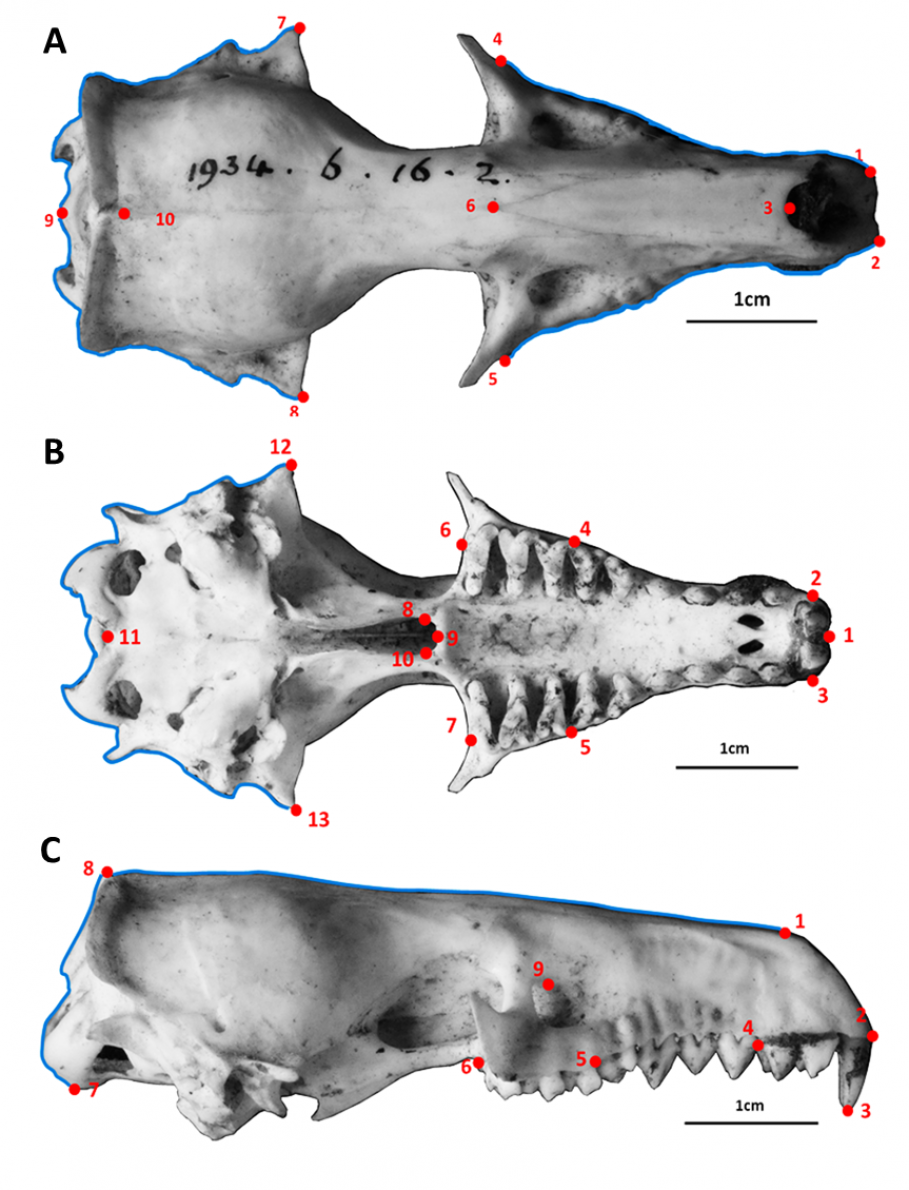
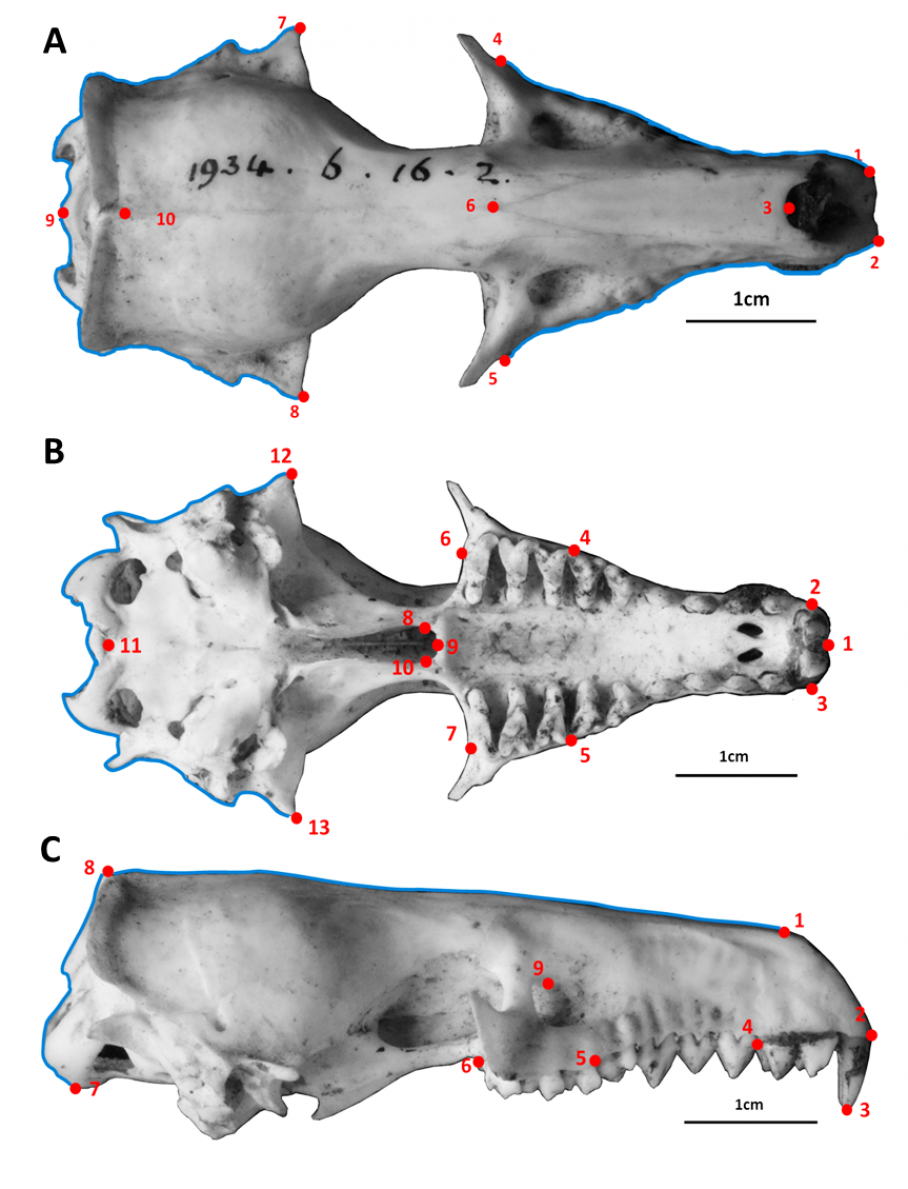
Update after PeerJ acceptance: edits to manuscript and new version of figure 2

diff --git a/paper/Manuscript.tex b/paper/Manuscript.tex
@@ -67,7 +67,7 @@ $^*$Corresponding author: Natalie Cooper; ncooper@tcd.ie; Zoology Building, Trin
 	Our methods involved i) data collection, ii) geometric morphometric analyses and iii) estimating morphological diversity. For clarity,  Figure 1 summarises all of these steps and we describe them in detail below.  	
 	
 \subsection{Data collection}
-	One of us (SF) collected data from five museums: Natural History Museum, London (BMNH), Smithsonian Institute Natural History Museum, Washington D.C. (SI), American Museum of Natural History, New York (AMNH), Museum of Comparative Zoology, Cambridge M.A. (MCZ) and Field Museum of Natural History, Chicago (FMNH). We used the taxonomy in Wilson \& Reeder's Mammal Species of the World \citeyearpar{Wilson2005}, except for the recently discovered tenrec species \textit{Microgale jobihely} \citep{Goodman2006}. We photographed all of the intact tenrec and golden mole skulls available in the collections. This included 31 of the 34 species in the tenrec family \citep{Olson2013} and 12 of the 21 species of golden moles \citep{Wilson2005}.
+	One of us (SF) collected data from five museums: Natural History Museum, London (BMNH), Smithsonian Institute Natural History Museum, Washington D.C. (SI), American Museum of Natural History, New York (AMNH), Museum of Comparative Zoology, Cambridge M.A. (MCZ) and Field Museum of Natural History, Chicago (FMNH). We used the taxonomy in Wilson \& Reeder's Mammal Species of the World \citeyearpar{Wilson2005}, except for the recently discovered tenrec species \textit{Microgale jobihely} \citep{Goodman2006}. We photographed all of the undamaged tenrec and golden mole skulls available in the collections. This included 31 of the 34 species in the tenrec family \citep{Olson2013} and 12 of the 21 species of golden moles \citep{Wilson2005}.
 	
 	We took pictures of the skulls using photographic copy stands. To take possible light variability into account, we took a photograph of a white sheet of paper each day and used the custom white balance function on the camera to set the image as the baseline "white" measurement for those particular light conditions. We photographed the specimens with a Canon EOS 650D camera fitted with a EF 100 mm f/2.8 Macro USM lens and using a remote control (H\"ahnel Combi TF) to avoid camera shake. We photographed the specimens on a black material background with a light source in the top left-hand corner of the photograph and a scale bar placed below the specimen. We used small bean bags to hold the specimens in position to ensure that they lay in a flat plane relative to the camera, and used the grid-line function on the live-view display screen of the camera to position the specimens in the centre of each image. 
 	
@@ -79,9 +79,9 @@ $^*$Corresponding author: Natalie Cooper; ncooper@tcd.ie; Zoology Building, Trin
 
 	We used a combination of landmark and semilandmark approaches to assess the shape variability in the skulls.  We used the TPS software suite \citep{Rohlf2013} to digitise landmarks and curves on the photos. We set the scale on each image individually to standardise for the different camera heights used when photographing the specimens. We created separate data files for each of the three morphometric analyses (dorsal, ventral and lateral views). One of us (SF) digitised landmarks and semilandmark points on every image individually. 
 
-	Figure 2 depicts the landmarks and curves which we used for each skull view. For landmarks defined by dental structures, we used published dental sources where available \citep{Repenning1967, Eisenberg1969, Nowak1983, MacPhee1987, KnoxJones1992, Davis1997, Querouil2001, Nagorsen2002, Wilson2005, Goodman2006, Karatas2007, Hoffmann2008, Asher2008,  Muldoon2009, Lin2010}  to identify the number and type of teeth in each species. Detailed descriptions of the landmarks, as well as an example figure of landmarks on golden mole skulls, can be found in the supplementary material.
+	Figure 2 depicts the landmarks and curves which we used for each skull view. For landmarks defined by dental structures, we used published dental sources where available \citep{Repenning1967, Eisenberg1969, Nowak1983, MacPhee1987, KnoxJones1992, Davis1997, Querouil2001, Nagorsen2002, Wilson2005, Goodman2006, Karatas2007, Hoffmann2008, Asher2008,  Muldoon2009, Lin2010}  to identify the number and type of teeth in each species. Detailed descriptions of the landmarks can be found in the supplementary material (Tables S1, S2, S3) along with an example figure of landmarks on golden mole skulls (figure S1).
 
-	When using semilandmark approaches there is a potential problem of over-sampling: simpler structures will require fewer semilandmarks to accurately represent their shape \citep{MacLeod2012}. To ensure that we applied a uniform standard of shape representation to each outline segment (i.e. that simple structures would not be over-represented and more complex features would not be under-represented), we followed the method outlined by MacLeod \citeyearpar{MacLeod2012} to determine the minimum number of semilandmark points which would give accurate representations of morphological shape. We used 54 points for skulls in dorsal view (10 landmarks, 44 semilandmarks across 4 curves), 73 points for skulls in ventral view (13 landmarks, 60 semilandmarks) and 44 points for skulls in lateral view (9 landmarks and 35 semilandmarks across 2 curves). See Figure 2 and the supplementary material for more details.
+	When using semilandmark approaches there is a potential problem of over-sampling: simpler structures will require fewer semilandmarks to accurately represent their shape \citep{MacLeod2012}. To ensure that we applied a uniform standard of shape representation to each outline segment (i.e. that simple structures would not be over-represented and more complex features would not be under-represented), we followed the method outlined by MacLeod \citeyearpar{MacLeod2012}. This re-sampling method determines the minimum number of semilandmark points required to measure an outline length to at least 95\% accuracy of the true length of the outline. The procedure balances the need to represent outline shapes accurately without introducing error by over-sampling curves \citep{MacLeod2012}. We used 54 points for skulls in dorsal view (10 landmarks, 44 semilandmarks across 4 curves, Table S1), 73 points for skulls in ventral view (13 landmarks, 60 semilandmarks, Table S2) and 44 points for skulls in lateral view (9 landmarks and 35 semilandmarks across 2 curves, Table S3). See Figure 2 and the supplementary material for more details.
 	
 	After creating the files with the landmarks and semilandmarks placed on each photograph, we used TPSUtil \citep{Rohlf2012} to create "sliders" files that defined which points in the TPS files should be treated as semilandmarks \citep{Zelditch2012}. We combined the landmarks and taxonomic identification files into a single morphometrics data object and carried out all further analyses in R version 3.1.1 \citep{Team2014}. 
 	
@@ -105,9 +105,9 @@ $^*$Corresponding author: Natalie Cooper; ncooper@tcd.ie; Zoology Building, Trin
 
 	One possible issue with these analyses is that the two families have unequal sample sizes: 31 (or a subset of 17) tenrec species compared to just 12 golden mole species. Morphological diversity is usually decoupled from taxonomic diversity \citep[e.g.][]{Ruta2013, Hopkins2013} so larger groups are not necessarily more morphologically diverse. However, comparing morphological diversity in tenrecs to the diversity of a smaller family could still bias the results. We used pairwise permutation tests to account for this potential issue. 
 
-	We tested the null hypothesis that tenrecs and golden moles have the same morphological diversity (the same mean Euclidean distance to the family centroid). If this is true, when we randomly assign the group identity of each species (i.e. shuffle the "tenrec" and "golden mole" labels) and then re-compare the morphological diversity of the two groups, there should be no significant difference between these results and those obtained when the species are assigned to the correct groupings. 
+	We tested the null hypothesis that tenrecs and golden moles have the same morphological diversity (the same mean Euclidean distance to the family centroid). If this is supported, when we randomly assign the group identity of each species (i.e. shuffle the "tenrec" and "golden mole" labels) and then re-compare the morphological diversity of the two groups, there should be no significant difference between these results and those obtained when the species are assigned to the correct groupings. 
 	
-	We performed this shuffling procedure (random assignation of group identity) 1000 times and calculated the difference in morphological diversity between the two groups for each permutation. This generated a distribution of 1000 values which are calculations of the differences in morphological diversity under the assumption that the null hypothesis (equal morphological diversity in the two families) is true. This method automatically accounts for differences in sample size because shuffling of the group labels preserves the sample size of each group: there will always be 12 species labelled as "golden mole" and then, depending on the analysis, either 31 or 17 species labelled as "tenrec". Therefore, the 1000 permuted values of differences in morphological diversity create a distribution of the expected difference in diversity between a group of sample size 31 (or 17 in the case of the tenrec data subset) compared to a group of sample size 12 under the null hypothesis that the two groups have the same morphological diversity. We compared the observed measures of the differences in morphological diversity between the two families to these null distributions to determine whether there were significant differences after taking sample size into account (two-tailed t test). Data and code for all of our analyses are available on GitHub \citep{Finlay2015c}.
+	We performed this shuffling procedure (random assignation of group identity) 1000 times and calculated the difference in morphological diversity between the two groups for each permutation. This generated a distribution of 1000 values which are calculations of the differences in morphological diversity under the assumption that the null hypothesis (equal morphological diversity in the two families) is true. This method automatically accounts for differences in sample size because shuffling of the group labels preserves the sample size of each group: there will always be 12 species labelled as "golden mole" and then, depending on the analysis, either 31 or 17 species labelled as "tenrec". Therefore, the 1000 permuted values of differences in morphological diversity create a distribution of the expected difference in diversity between a group of sample size N=31 (or N=17 in the case of the tenrec data subset) compared to a group of sample size N=12 under the null hypothesis that the two groups have the same morphological diversity. We compared the observed measures of the differences in morphological diversity between the two families to these null distributions to determine whether there were significant differences after taking sample size into account (two-tailed t test). Data and code for all of our analyses are available on GitHub \citep{Finlay2015c}.
 
 \section{Results} 
 	Figure 4 depicts the morphospaces defined by the first two principal component (PC) axes from our principal components analyses (PCAs) of skull and mandible morphologies. The PCAs are based on the average Procrustes-superimposed shape coordinates for skulls in three views (dorsal, ventral and lateral).

diff --git a/paper/PeerJ_resubmission/Manuscript.tex b/paper/PeerJ_resubmission/Manuscript.tex
@@ -67,7 +67,7 @@ $^*$Corresponding author: Natalie Cooper; ncooper@tcd.ie; Zoology Building, Trin
 	Our methods involved i) data collection, ii) geometric morphometric analyses and iii) estimating morphological diversity. For clarity,  Figure 1 summarises all of these steps and we describe them in detail below.  	
 	
 \subsection{Data collection}
-	One of us (SF) collected data from five museums: Natural History Museum, London (BMNH), Smithsonian Institute Natural History Museum, Washington D.C. (SI), American Museum of Natural History, New York (AMNH), Museum of Comparative Zoology, Cambridge M.A. (MCZ) and Field Museum of Natural History, Chicago (FMNH). We used the taxonomy in Wilson \& Reeder's Mammal Species of the World \citeyearpar{Wilson2005}, except for the recently discovered tenrec species \textit{Microgale jobihely} \citep{Goodman2006}. We photographed all of the intact tenrec and golden mole skulls available in the collections. This included 31 of the 34 species in the tenrec family \citep{Olson2013} and 12 of the 21 species of golden moles \citep{Wilson2005}.
+	One of us (SF) collected data from five museums: Natural History Museum, London (BMNH), Smithsonian Institute Natural History Museum, Washington D.C. (SI), American Museum of Natural History, New York (AMNH), Museum of Comparative Zoology, Cambridge M.A. (MCZ) and Field Museum of Natural History, Chicago (FMNH). We used the taxonomy in Wilson \& Reeder's Mammal Species of the World \citeyearpar{Wilson2005}, except for the recently discovered tenrec species \textit{Microgale jobihely} \citep{Goodman2006}. We photographed all of the undamaged tenrec and golden mole skulls available in the collections. This included 31 of the 34 species in the tenrec family \citep{Olson2013} and 12 of the 21 species of golden moles \citep{Wilson2005}.
 	
 	We took pictures of the skulls using photographic copy stands. To take possible light variability into account, we took a photograph of a white sheet of paper each day and used the custom white balance function on the camera to set the image as the baseline "white" measurement for those particular light conditions. We photographed the specimens with a Canon EOS 650D camera fitted with a EF 100 mm f/2.8 Macro USM lens and using a remote control (H\"ahnel Combi TF) to avoid camera shake. We photographed the specimens on a black material background with a light source in the top left-hand corner of the photograph and a scale bar placed below the specimen. We used small bean bags to hold the specimens in position to ensure that they lay in a flat plane relative to the camera, and used the grid-line function on the live-view display screen of the camera to position the specimens in the centre of each image. 
 	
@@ -79,9 +79,9 @@ $^*$Corresponding author: Natalie Cooper; ncooper@tcd.ie; Zoology Building, Trin
 
 	We used a combination of landmark and semilandmark approaches to assess the shape variability in the skulls.  We used the TPS software suite \citep{Rohlf2013} to digitise landmarks and curves on the photos. We set the scale on each image individually to standardise for the different camera heights used when photographing the specimens. We created separate data files for each of the three morphometric analyses (dorsal, ventral and lateral views). One of us (SF) digitised landmarks and semilandmark points on every image individually. 
 
-	Figure 2 depicts the landmarks and curves which we used for each skull view. For landmarks defined by dental structures, we used published dental sources where available \citep{Repenning1967, Eisenberg1969, Nowak1983, MacPhee1987, KnoxJones1992, Davis1997, Querouil2001, Nagorsen2002, Wilson2005, Goodman2006, Karatas2007, Hoffmann2008, Asher2008,  Muldoon2009, Lin2010}  to identify the number and type of teeth in each species. Detailed descriptions of the landmarks, as well as an example figure of landmarks on golden mole skulls, can be found in the supplementary material.
+	Figure 2 depicts the landmarks and curves which we used for each skull view. For landmarks defined by dental structures, we used published dental sources where available \citep{Repenning1967, Eisenberg1969, Nowak1983, MacPhee1987, KnoxJones1992, Davis1997, Querouil2001, Nagorsen2002, Wilson2005, Goodman2006, Karatas2007, Hoffmann2008, Asher2008,  Muldoon2009, Lin2010}  to identify the number and type of teeth in each species. Detailed descriptions of the landmarks can be found in the supplementary material (Tables S1, S2, S3) along with an example figure of landmarks on golden mole skulls (figure S1).
 
-	When using semilandmark approaches there is a potential problem of over-sampling: simpler structures will require fewer semilandmarks to accurately represent their shape \citep{MacLeod2012}. To ensure that we applied a uniform standard of shape representation to each outline segment (i.e. that simple structures would not be over-represented and more complex features would not be under-represented), we followed the method outlined by MacLeod \citeyearpar{MacLeod2012} to determine the minimum number of semilandmark points which would give accurate representations of morphological shape. We used 54 points for skulls in dorsal view (10 landmarks, 44 semilandmarks across 4 curves), 73 points for skulls in ventral view (13 landmarks, 60 semilandmarks) and 44 points for skulls in lateral view (9 landmarks and 35 semilandmarks across 2 curves). See Figure 2 and the supplementary material for more details.
+	When using semilandmark approaches there is a potential problem of over-sampling: simpler structures will require fewer semilandmarks to accurately represent their shape \citep{MacLeod2012}. To ensure that we applied a uniform standard of shape representation to each outline segment (i.e. that simple structures would not be over-represented and more complex features would not be under-represented), we followed the method outlined by MacLeod \citeyearpar{MacLeod2012}. This re-sampling method determines the minimum number of semilandmark points required to measure an outline length to at least 95\% accuracy of the true length of the outline. The procedure balances the need to represent outline shapes accurately without introducing error by over-sampling curves \citep{MacLeod2012}. We used 54 points for skulls in dorsal view (10 landmarks, 44 semilandmarks across 4 curves, Table S1), 73 points for skulls in ventral view (13 landmarks, 60 semilandmarks, Table S2) and 44 points for skulls in lateral view (9 landmarks and 35 semilandmarks across 2 curves, Table S3). See Figure 2 and the supplementary material for more details.
 	
 	After creating the files with the landmarks and semilandmarks placed on each photograph, we used TPSUtil \citep{Rohlf2012} to create "sliders" files that defined which points in the TPS files should be treated as semilandmarks \citep{Zelditch2012}. We combined the landmarks and taxonomic identification files into a single morphometrics data object and carried out all further analyses in R version 3.1.1 \citep{Team2014}. 
 	
@@ -105,9 +105,9 @@ $^*$Corresponding author: Natalie Cooper; ncooper@tcd.ie; Zoology Building, Trin
 
 	One possible issue with these analyses is that the two families have unequal sample sizes: 31 (or a subset of 17) tenrec species compared to just 12 golden mole species. Morphological diversity is usually decoupled from taxonomic diversity \citep[e.g.][]{Ruta2013, Hopkins2013} so larger groups are not necessarily more morphologically diverse. However, comparing morphological diversity in tenrecs to the diversity of a smaller family could still bias the results. We used pairwise permutation tests to account for this potential issue. 
 
-	We tested the null hypothesis that tenrecs and golden moles have the same morphological diversity (the same mean Euclidean distance to the family centroid). If this is true, when we randomly assign the group identity of each species (i.e. shuffle the "tenrec" and "golden mole" labels) and then re-compare the morphological diversity of the two groups, there should be no significant difference between these results and those obtained when the species are assigned to the correct groupings. 
+	We tested the null hypothesis that tenrecs and golden moles have the same morphological diversity (the same mean Euclidean distance to the family centroid). If this is supported, when we randomly assign the group identity of each species (i.e. shuffle the "tenrec" and "golden mole" labels) and then re-compare the morphological diversity of the two groups, there should be no significant difference between these results and those obtained when the species are assigned to the correct groupings. 
 	
-	We performed this shuffling procedure (random assignation of group identity) 1000 times and calculated the difference in morphological diversity between the two groups for each permutation. This generated a distribution of 1000 values which are calculations of the differences in morphological diversity under the assumption that the null hypothesis (equal morphological diversity in the two families) is true. This method automatically accounts for differences in sample size because shuffling of the group labels preserves the sample size of each group: there will always be 12 species labelled as "golden mole" and then, depending on the analysis, either 31 or 17 species labelled as "tenrec". Therefore, the 1000 permuted values of differences in morphological diversity create a distribution of the expected difference in diversity between a group of sample size 31 (or 17 in the case of the tenrec data subset) compared to a group of sample size 12 under the null hypothesis that the two groups have the same morphological diversity. We compared the observed measures of the differences in morphological diversity between the two families to these null distributions to determine whether there were significant differences after taking sample size into account (two-tailed t test). Data and code for all of our analyses are available on GitHub \citep{Finlay2015c}.
+	We performed this shuffling procedure (random assignation of group identity) 1000 times and calculated the difference in morphological diversity between the two groups for each permutation. This generated a distribution of 1000 values which are calculations of the differences in morphological diversity under the assumption that the null hypothesis (equal morphological diversity in the two families) is true. This method automatically accounts for differences in sample size because shuffling of the group labels preserves the sample size of each group: there will always be 12 species labelled as "golden mole" and then, depending on the analysis, either 31 or 17 species labelled as "tenrec". Therefore, the 1000 permuted values of differences in morphological diversity create a distribution of the expected difference in diversity between a group of sample size N=31 (or N=17 in the case of the tenrec data subset) compared to a group of sample size N=12 under the null hypothesis that the two groups have the same morphological diversity. We compared the observed measures of the differences in morphological diversity between the two families to these null distributions to determine whether there were significant differences after taking sample size into account (two-tailed t test). Data and code for all of our analyses are available on GitHub \citep{Finlay2015c}.
 
 \section{Results} 
 	Figure 4 depicts the morphospaces defined by the first two principal component (PC) axes from our principal components analyses (PCAs) of skull and mandible morphologies. The PCAs are based on the average Procrustes-superimposed shape coordinates for skulls in three views (dorsal, ventral and lateral).
